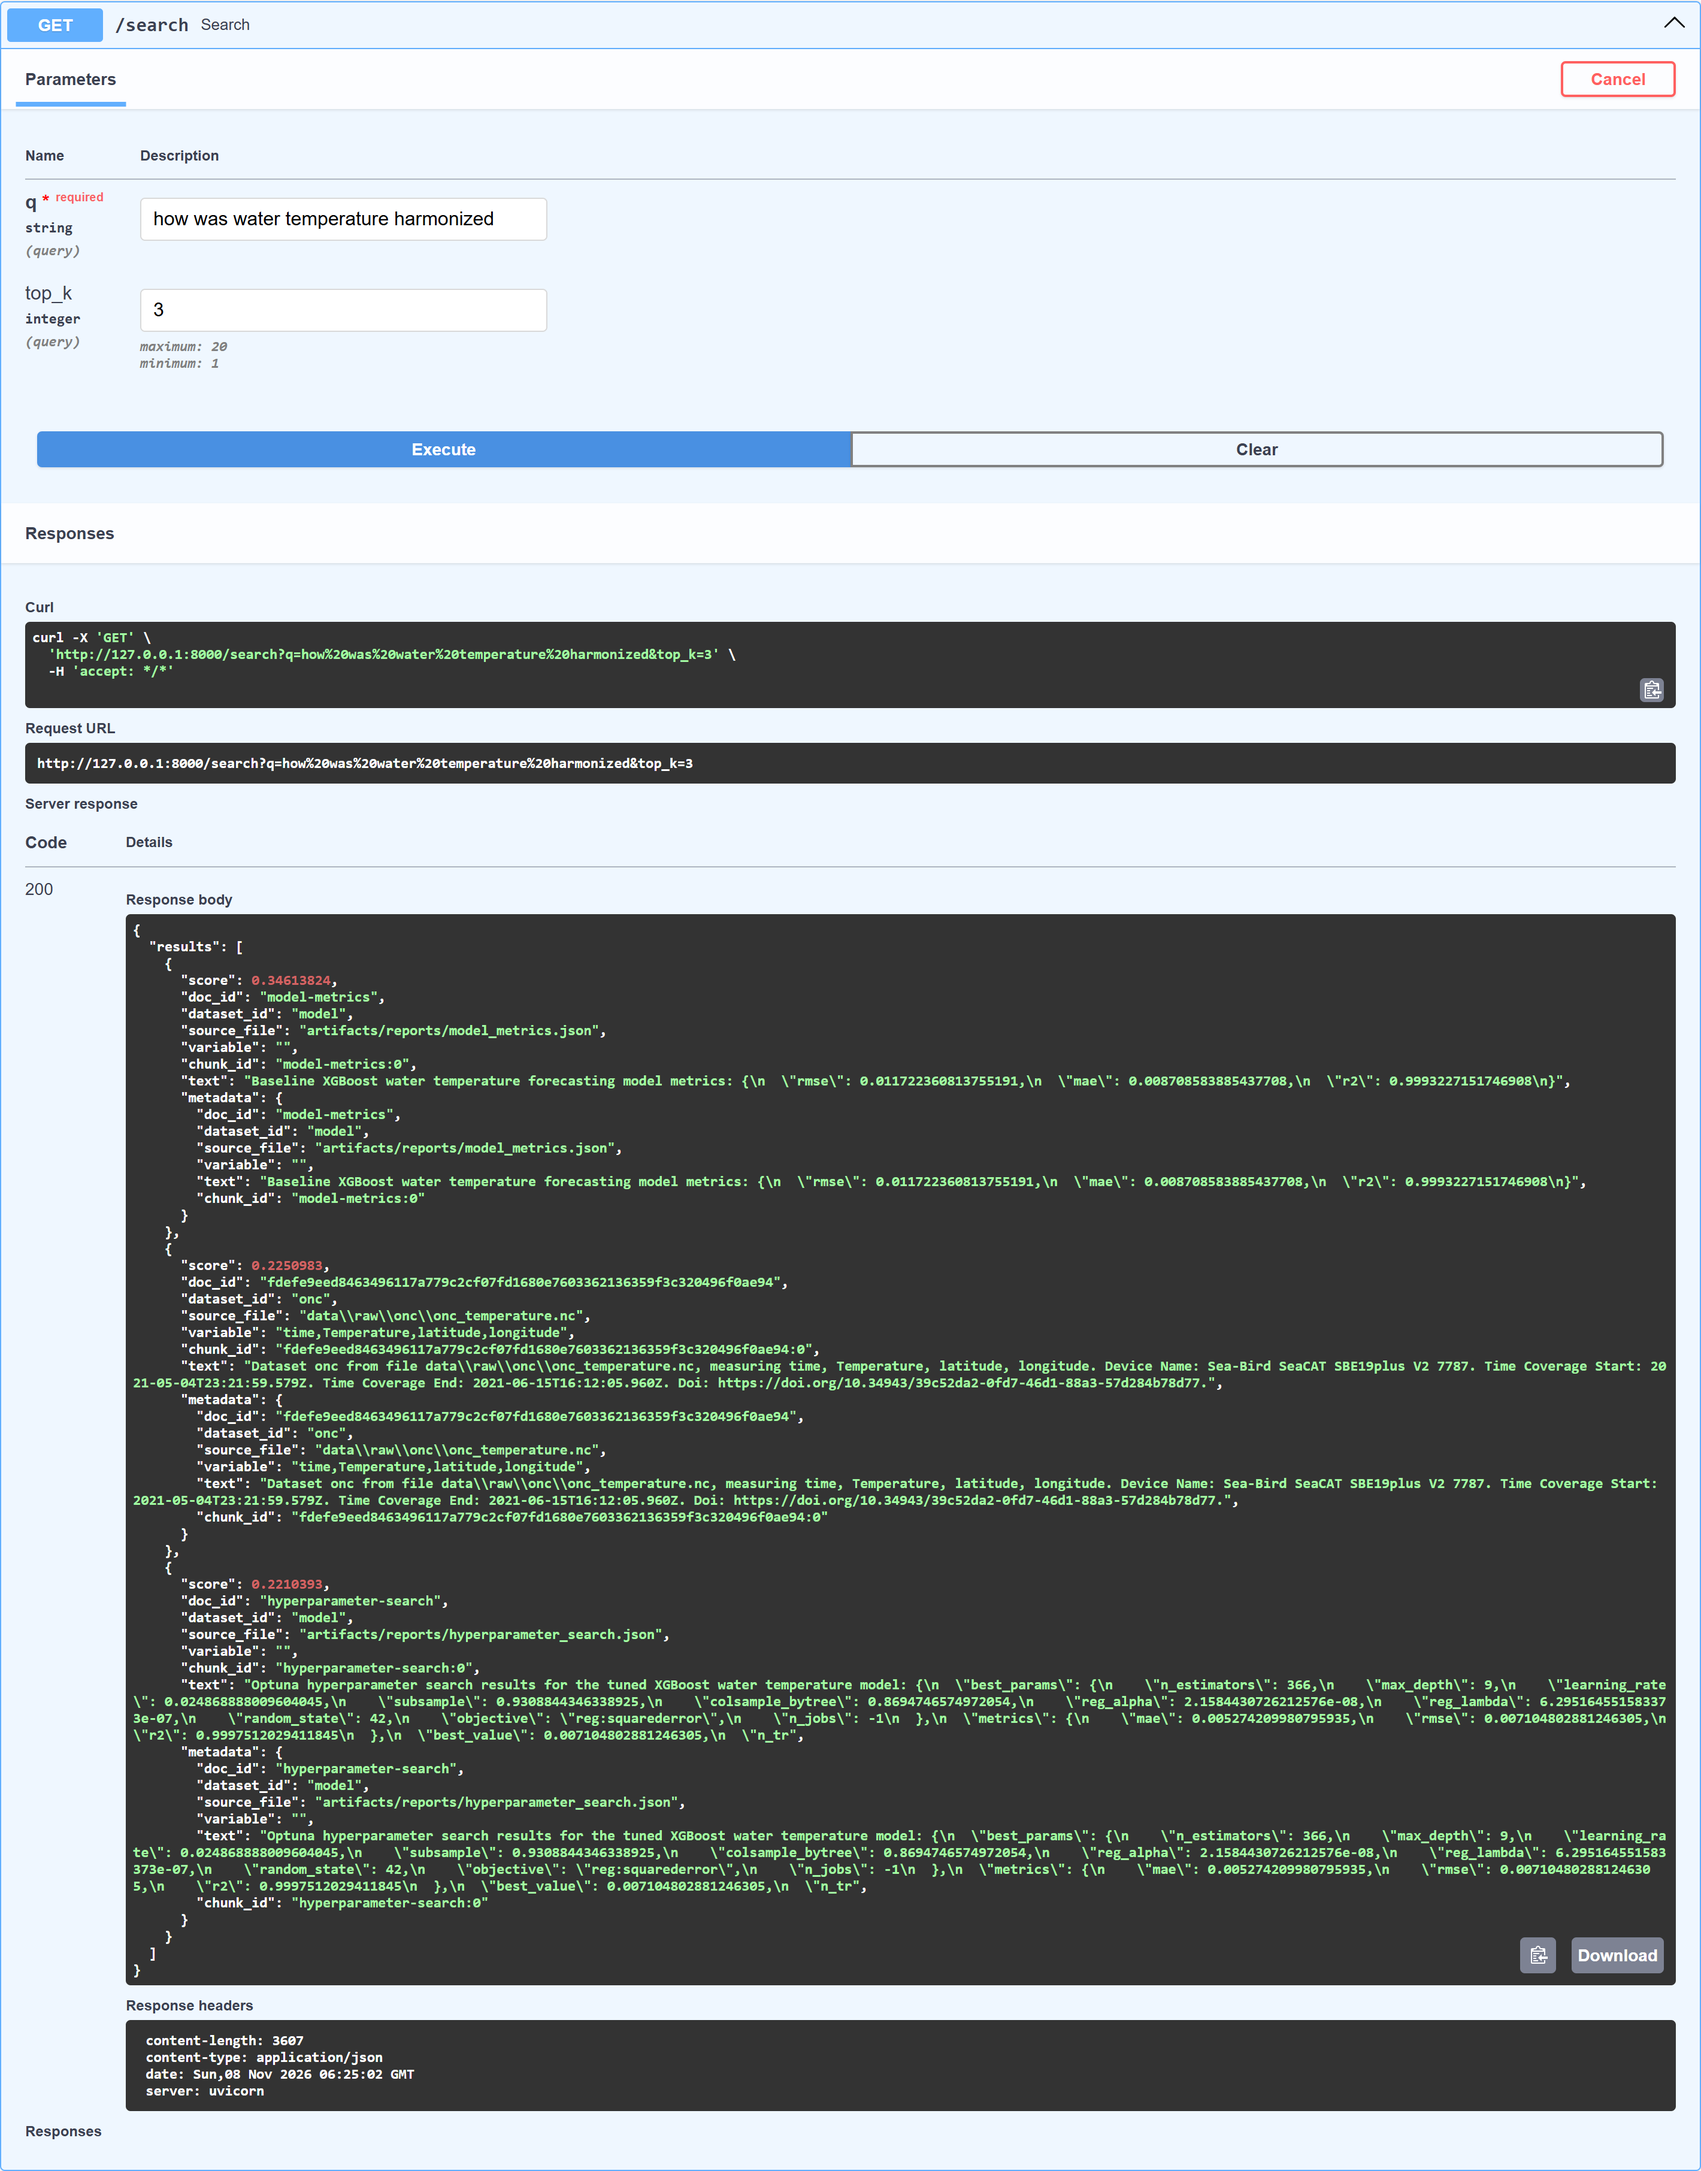
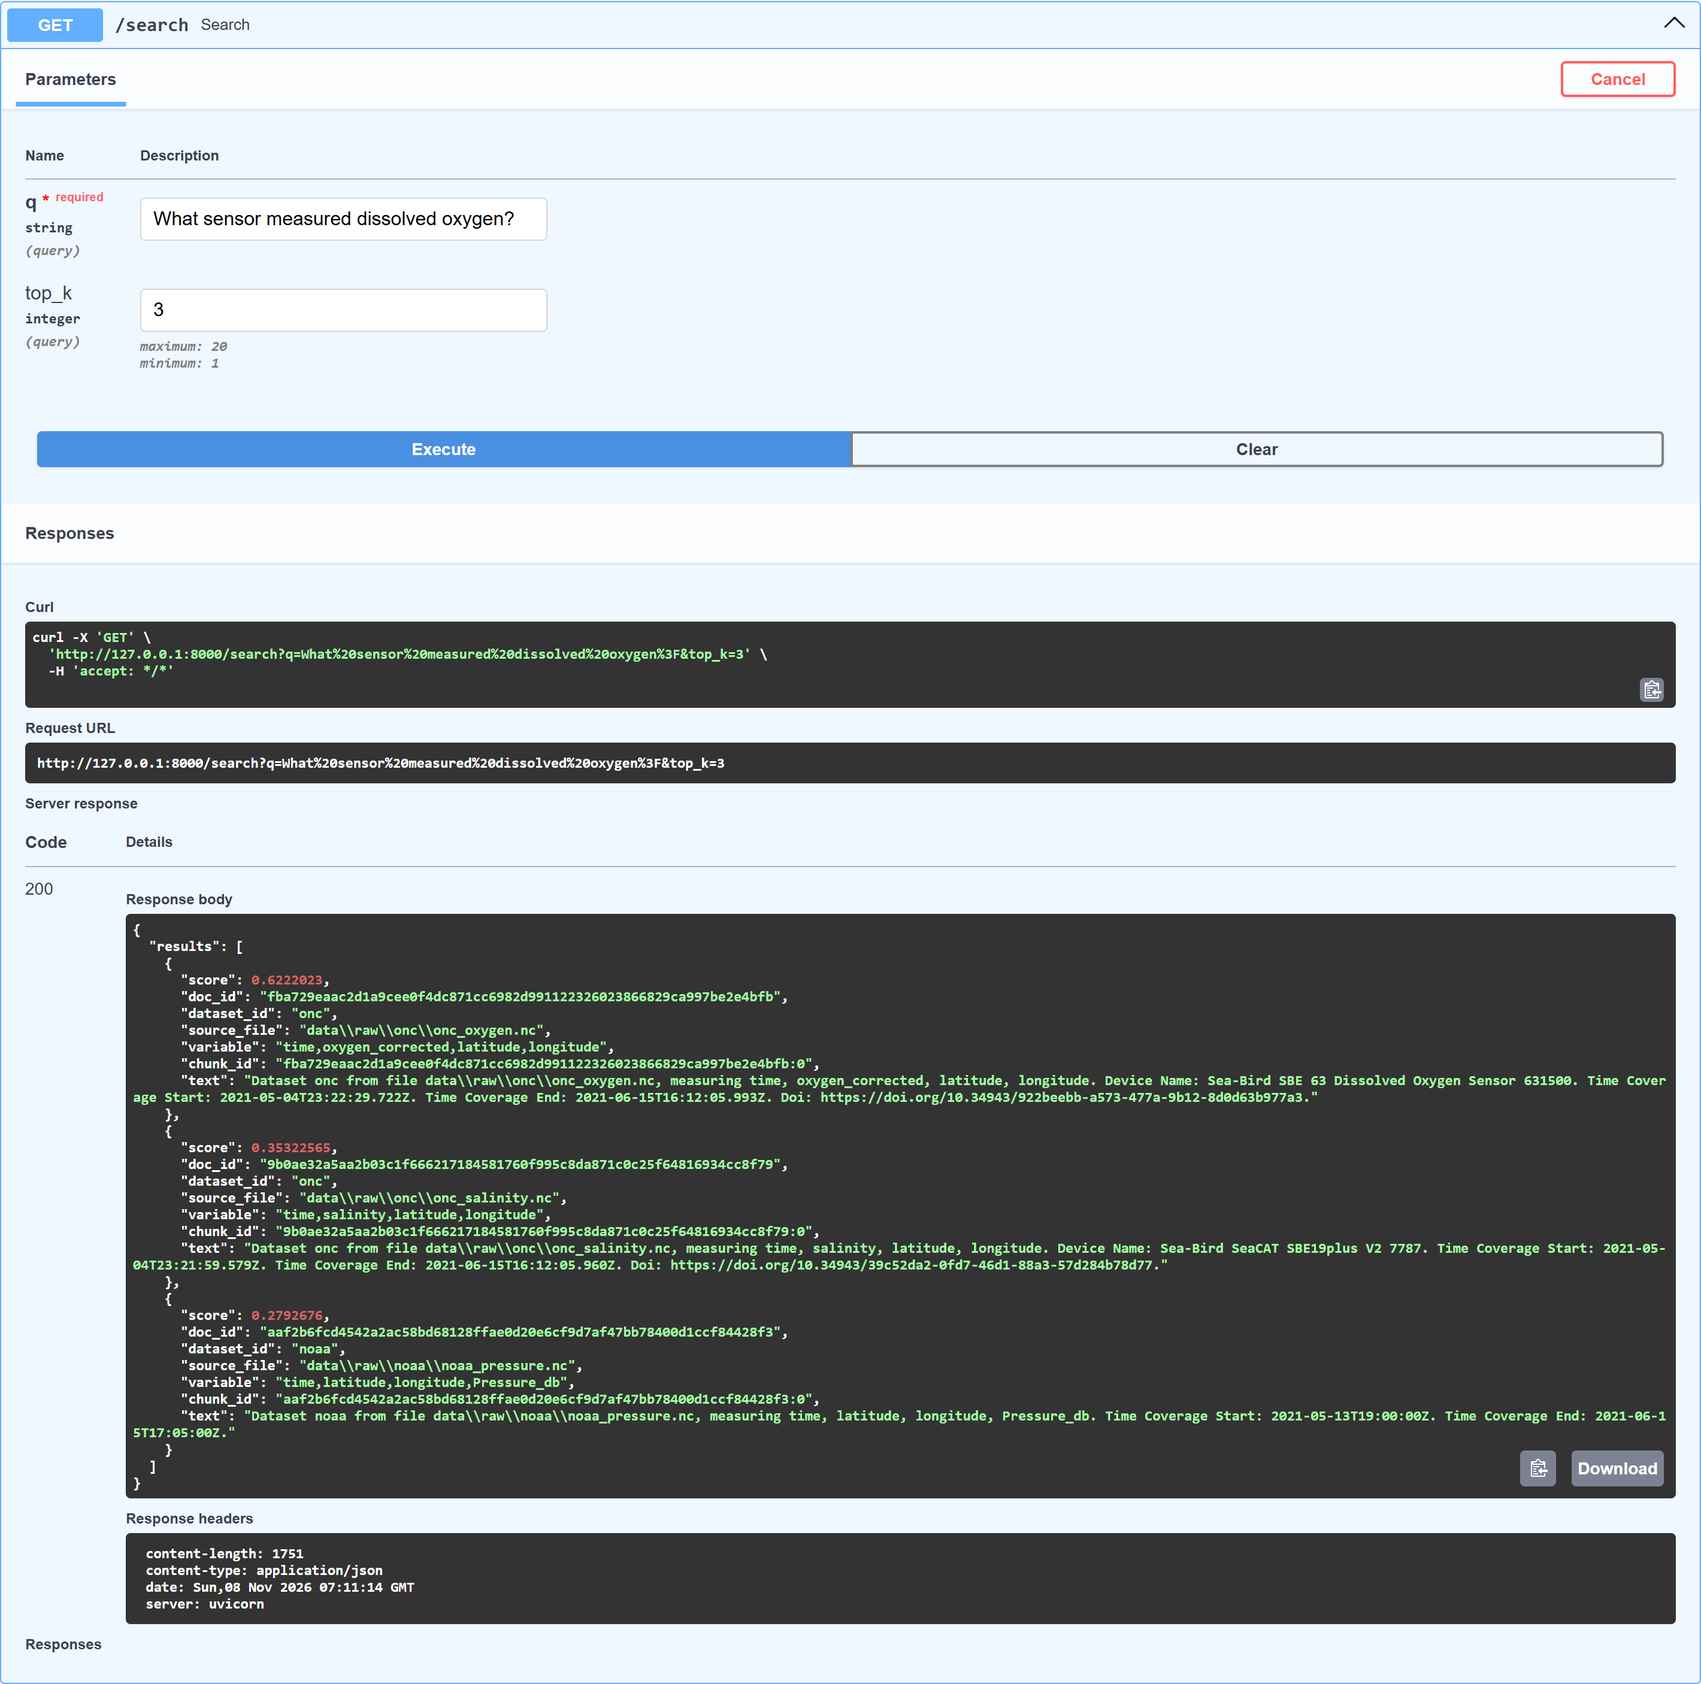
Drop the duplicated metadata from retrieval hits
Retriever.retrieve flattened the vector store payload into named fields and then
attached the same payload again under "metadata", so every hit carried each of
doc_id, dataset_id, source_file, variable, chunk_id and text twice. On a
three-hit /ask response that is 3704 bytes where 1939 will do.

format_context was the only consumer and now reads the flattened fields, which
produces a byte-identical context string. Verified against the live endpoints:
hits carry score, doc_id, dataset_id, source_file, variable, chunk_id, text and
nothing else, and /ask still answers correctly from the rebuilt context.

Test suite in the container: 5 passed. test_features and test_spark_harmonize
fail on a missing JVM for pyspark, which predates this change and is unrelated
to it.

Also re-captures the two demo screenshots this changes, with questions chosen to
be legible rather than clever. /search now asks which sensor measured dissolved
oxygen and the oxygen manifest returns first at 0.62 against 0.35 for the next
hit. /ask now asks what the oxygen dataset contains and where it comes from,
and every claim in the answer appears verbatim in the top-ranked chunk shown
directly beneath it.

The previous /ask example had the right answer for a reason no reader could see:
the top-scoring chunk held the baseline metrics while the answer correctly
quoted the tuned ones from the second chunk, which reads as a contradiction
unless you already know the difference.

diff --git a/Ocean Data ML Platform with RAG/app/rag/provenance_formatter.py b/Ocean Data ML Platform with RAG/app/rag/provenance_formatter.py
@@ -1,2 +1,2 @@
 def format_context(results):
-    return [f"Dataset: {r['metadata'].get('dataset_id')}\nSource file: {r['metadata'].get('source_file')}\nText: {r['metadata'].get('text','')}" for r in results]
+    return [f"Dataset: {r.get('dataset_id')}\nSource file: {r.get('source_file')}\nText: {r.get('text','')}" for r in results]

diff --git a/Ocean Data ML Platform with RAG/app/retrieval/retriever.py b/Ocean Data ML Platform with RAG/app/retrieval/retriever.py
@@ -22,7 +22,6 @@ class Retriever:
                     "variable": metadata.get("variable"),
                     "chunk_id": metadata.get("chunk_id"),
                     "text": metadata.get("text", ""),
-                    "metadata": metadata,
                 }
             )
 

diff --git a/Ocean Data ML Platform with RAG/README.md b/Ocean Data ML Platform with RAG/README.md
@@ -582,19 +582,19 @@ The lineage answer, and the clearest demonstration of what harmonization did: ON
 
 ### `GET /search`
 
-Dense retrieval over the indexed metadata and reports, scored by cosine similarity. All three hits are shown, each carrying its score, source file and the text that was matched.
+Dense retrieval over the indexed metadata and reports. Asked which sensor measured dissolved oxygen, the oxygen manifest comes back first at 0.62 against 0.35 for the next hit — a wide enough gap to show the ranking is doing real work. All three hits are shown with their scores, source files and matched text.
 
 ![GET /search](docs/demo/search.png)
 
 ### `POST /ask`
 
-Retrieval-augmented answering. The response carries the generated answer **and** every chunk it was grounded in, so the answer can be checked rather than trusted — and this one checks out: the three figures it reports are identical to what `GET /metrics` returns below. Answered by `llama3` running locally through Ollama, which takes about a minute on CPU.
+Retrieval-augmented answering. The response carries the generated answer **and** every chunk it was grounded in, so the answer can be checked rather than trusted — and here the check is easy: every claim in the answer (`oxygen_corrected`, the file `onc_oxygen.nc`, the Sea-Bird SBE 63 sensor 631500) appears verbatim in the top-ranked chunk directly below it. Answered by `llama3` running locally through Ollama, which takes about a minute on CPU.
 
 ![POST /ask](docs/demo/ask.png)
 
 ### `POST /eval/retrieval`
 
-Scores the retriever against the held-out query set instead of assuming it works, and writes the result to disk. Called with no arguments, exactly as a caller would — which is the call that surfaced the hardcoded `top_k` bug written up above. Now that the route reads `settings.rag_eval_top_k`, it returns the same hit@k 0.9 and term recall 0.85 quoted at the top of this README rather than the 1.0 pair that used to come back.
+Scores the retriever against the held-out query set instead of assuming it works, and writes the result to disk. Called with no arguments it uses the project's own default `top_k`, which is what the hit@k 0.9 and term recall 0.85 quoted above were measured at. A larger `top_k` flatters both numbers, so the default is the one worth publishing.
 
 ![POST /eval/retrieval](docs/demo/eval_retrieval.png)
 
